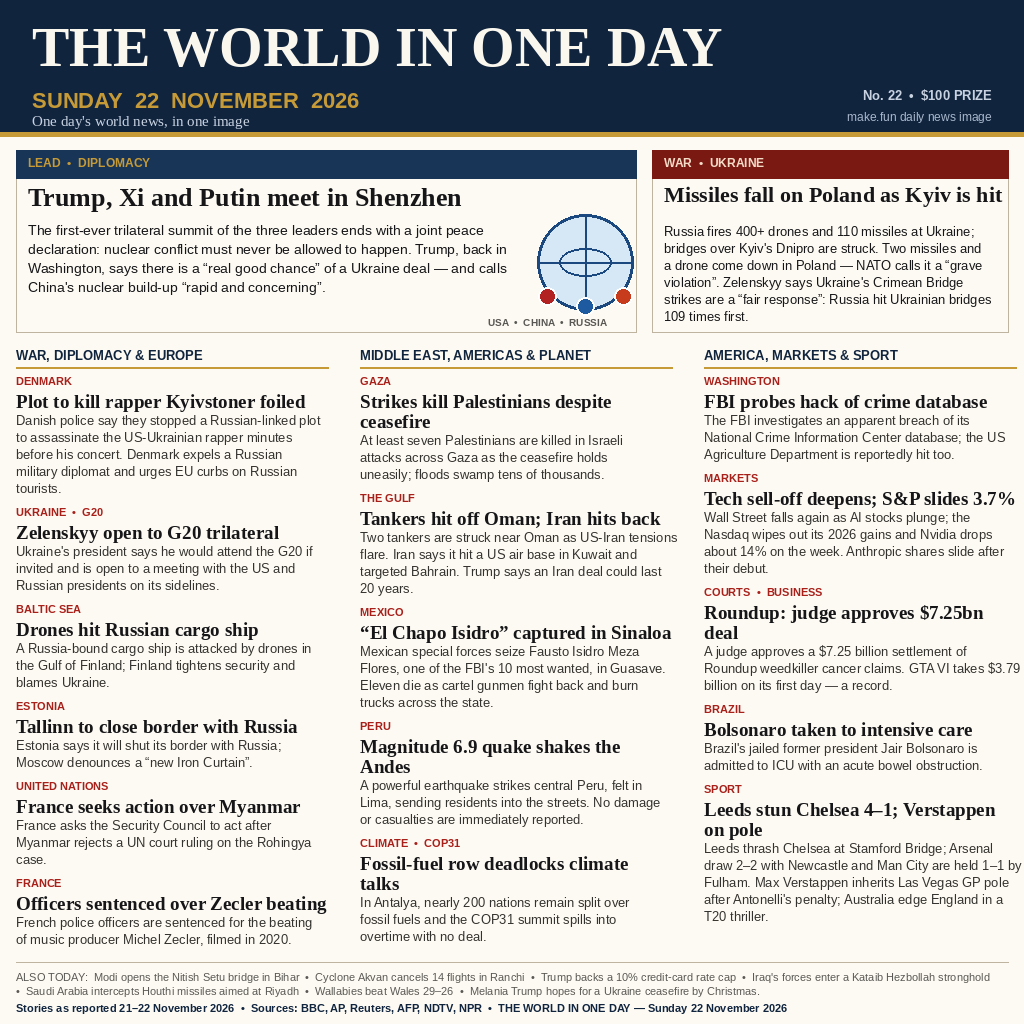
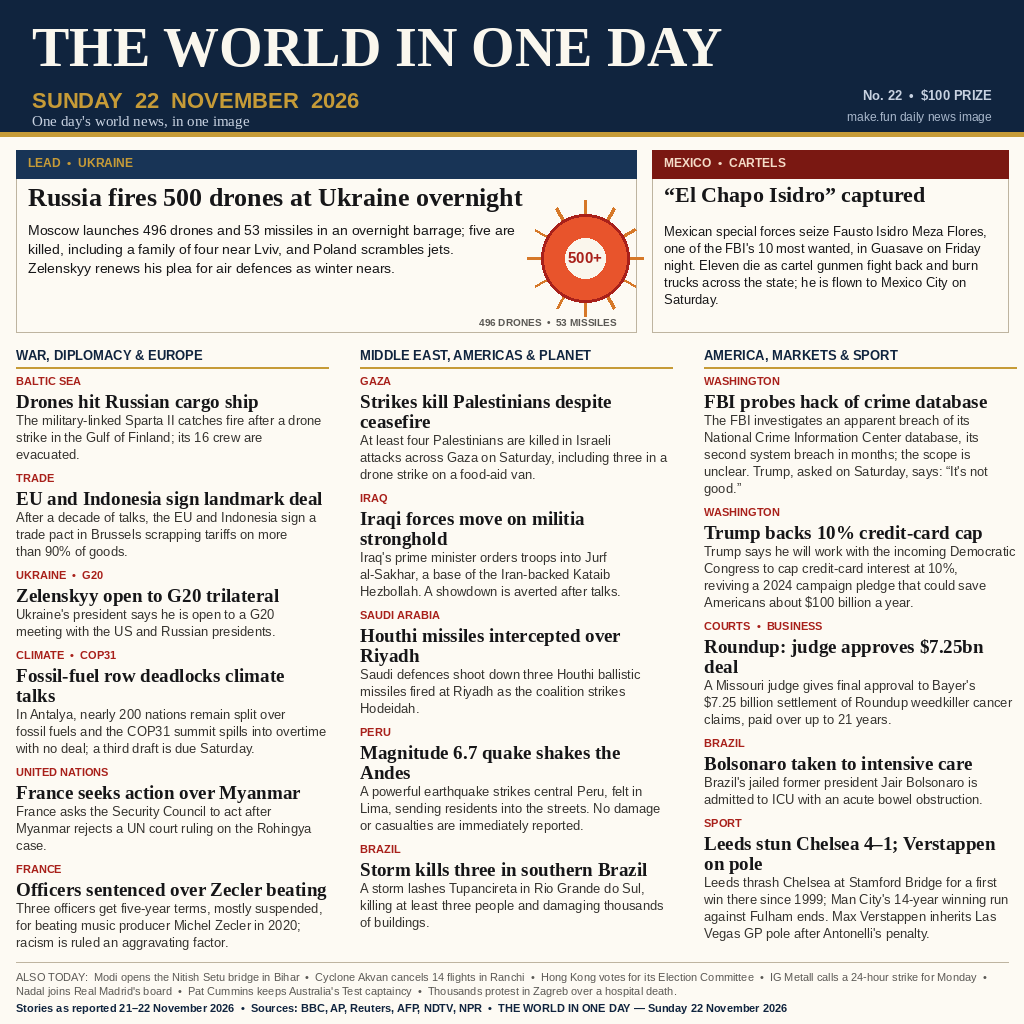
Fix: replace stale Shenzhen lead with overnight 21-22 Nov Ukraine barrage; re-date-check all stories

diff --git a/README.md b/README.md
@@ -10,14 +10,13 @@ Entry for the [make.fun](https://make.fun) competition
 ## What it is
 
 A single broadsheet front page, drawn in code, that sums up the world's news
-of Sunday 22 November 2026. The masthead names the day; the lead story is the
-first-ever trilateral summit of Trump, Xi and Putin in Shenzhen, and the page
-then covers the war in Ukraine (including missiles landing in Poland), the
-foiled plot against rapper Kyivstoner in Denmark, Gaza, the tanker attacks in
-the Gulf, the capture of cartel boss "El Chapo Isidro" in Mexico, the 6.9
-earthquake in Peru, the COP31 deadlock in Antalya, the tech sell-off on Wall
-Street, the FBI database hack probe, and the day's sport — about thirty
-stories in all, each checked against wire reporting from 21–22 November 2026.
+of Sunday 22 November 2026. The masthead names the day; the lead story is
+Russia's overnight barrage of 496 drones and 53 missiles on Ukraine, and the
+page then covers the capture of cartel boss "El Chapo Isidro" in Mexico, the
+drone strike on the Russian cargo ship Sparta II, the EU–Indonesia trade deal,
+Gaza, Iraq, the 6.7 earthquake in Peru, the COP31 deadlock in Antalya, the FBI
+database hack probe, and the day's sport — about thirty stories in all, each
+checked against wire reporting from 21–22 November 2026.
 
 ## How it runs
 
